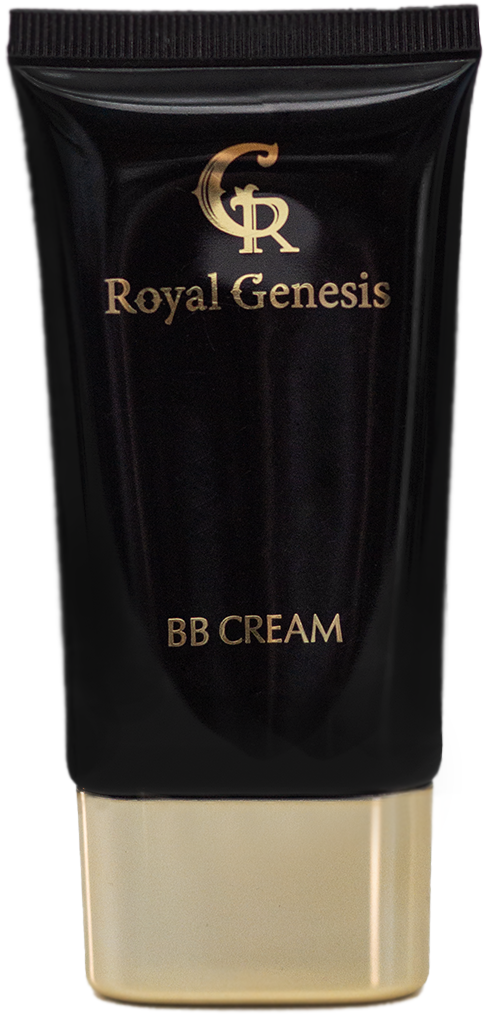
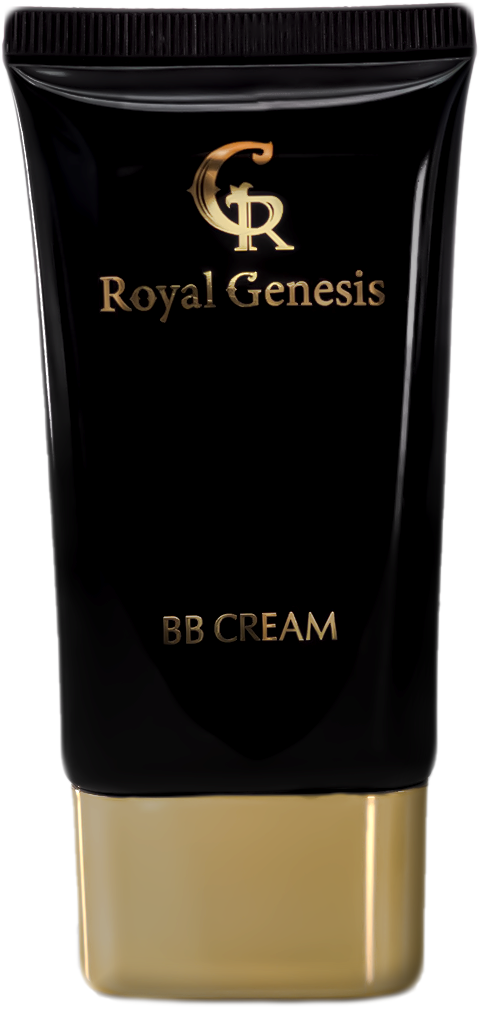
Add fon in image

diff --git a/products.html b/products.html
@@ -1,4 +1,4 @@
-<!doctype html>
+<!DOCTYPE html>
 <html lang="ru">
   <head>
     <meta charset="UTF-8" />
@@ -29,7 +29,9 @@
             <a href="products.html#step3" class="menu__link">Востановление</a>
           </li>
           <li class="menu__item text-gradient">
-            <a href="products.html#step4" class="menu__link">Дополнительный уход</a>
+            <a href="products.html#step4" class="menu__link"
+              >Дополнительный уход</a
+            >
           </li>
           <li class="menu__item text-gradient">
             <a href="products.html#footer" class="menu__link">Контакты</a>
@@ -41,6 +43,7 @@
       <div class="step">
         <h2 id="step1" class="step__title">Этап 1: Очищение</h2>
         <section class="product">
+          <div class="image__wrapper">
             <img
               class="product__image"
               src="images/product_1-1.png"
@@ -48,127 +51,189 @@
               height="630"
               alt=""
             />
-            <div class="product__description">
-              <h2 class="product__title text-gradient uppercase">Очищающий крем</h2>
-              <p class="product__text">
-                Благородные ритуалы ухода за&nbsp;кожей начинаются с&nbsp;этапа очищения. 
-Заботливый уход на&nbsp;первом этапе&nbsp;&mdash; это ключ к&nbsp;сохранению молодости и&nbsp;здоровья кожи на&nbsp;протяжении многих лет. 
-Очищающий крем обладает способностью преобразить обычную рутину ухода за&nbsp;кожей в&nbsp;удовольствие. Облакообразная мягкая пена, нежная и&nbsp;плотная, бережно очищает поры не&nbsp;стягивая кожу. 
-Благодаря своей уникальной формуле, крем делает кожу более мягкой и&nbsp;шелковистой на&nbsp;ощупь.
-              </p>
-            </div>
+          </div>
+          <div class="product__description">
+            <h2 class="product__title text-gradient uppercase">
+              Очищающий крем
+            </h2>
+            <p class="product__text">
+              Благородные ритуалы ухода за&nbsp;кожей начинаются с&nbsp;этапа
+              очищения. Заботливый уход на&nbsp;первом этапе&nbsp;&mdash; это
+              ключ к&nbsp;сохранению молодости и&nbsp;здоровья кожи
+              на&nbsp;протяжении многих лет. Очищающий крем обладает
+              способностью преобразить обычную рутину ухода за&nbsp;кожей
+              в&nbsp;удовольствие. Облакообразная мягкая пена, нежная
+              и&nbsp;плотная, бережно очищает поры не&nbsp;стягивая кожу.
+              Благодаря своей уникальной формуле, крем делает кожу более мягкой
+              и&nbsp;шелковистой на&nbsp;ощупь.
+            </p>
+          </div>
         </section>
         <section class="product">
           <div class="product__description">
-            <h2 class="product__title text-gradient uppercase">Специальный тонер</h2>
+            <h2 class="product__title text-gradient uppercase">
+              Специальный тонер
+            </h2>
             <p class="product__text">
-              В&nbsp;свою очередь, нежная, прозрачная текстура тонера помогает восстановить водный баланс кожи, предотвращает преждевременное старение, освежает кожу, делает ее&nbsp;более сияющей и&nbsp;здоровой. 
-Компоненты тонера помогают закрепить увлажнение и&nbsp;подготовить кожу к&nbsp;следующим этапам ухода. 
-Таким образом, использование тонера в&nbsp;регулярном уходе за&nbsp;кожей поможет ей&nbsp;выглядеть более здоровой, увлажненной и&nbsp;сияющей. 
+              В&nbsp;свою очередь, нежная, прозрачная текстура тонера помогает
+              восстановить водный баланс кожи, предотвращает преждевременное
+              старение, освежает кожу, делает ее&nbsp;более сияющей
+              и&nbsp;здоровой. Компоненты тонера помогают закрепить увлажнение
+              и&nbsp;подготовить кожу к&nbsp;следующим этапам ухода. Таким
+              образом, использование тонера в&nbsp;регулярном уходе
+              за&nbsp;кожей поможет ей&nbsp;выглядеть более здоровой,
+              увлажненной и&nbsp;сияющей.
             </p>
           </div>
-          <img
-          class="product__image"
-          src="images/product_1-2.png"
-          width="226"
-          height="656"
-          alt=""
-        />
-      </section>
+          <div class="image__wrapper">
+            <img
+              class="product__image"
+              src="images/product_1-2.png"
+              width="226"
+              height="656"
+              alt=""
+            />
+          </div>
+        </section>
       </div>
       <div class="step">
         <h2 id="step2" class="step__title">Этап 2: Увлажнение</h2>
         <section class="product">
-          <img
-            class="product__image"
-            src="images/product_2-1.png"
-            width="228"
-            height="653"
-            alt=""
-          />
+          <div class="image__wrapper">
+            <img
+              class="product__image"
+              src="images/product_2-1.png"
+              width="228"
+              height="653"
+              alt=""
+            />
+          </div>
           <div class="product__description">
-            <h2 class="product__title text-gradient uppercase">Лифтинг сыворотка</h2>
+            <h2 class="product__title text-gradient uppercase">
+              Лифтинг сыворотка
+            </h2>
             <p class="product__text">
-              На&nbsp;втором этапе процедуры ухода за&nbsp;кожей происходит питание и&nbsp;увлажнение кожи с&nbsp;помощью лифтинг-сыворотки и&nbsp;эмульсии. 
-              Лифтинг-сыворотка содержит активные компоненты, которые активно питают кожу и&nbsp;стимулируют регенерацию клеток, обеспечивая глубокое проникновение и&nbsp;улучшение текстуры кожи изнутри. 
+              На&nbsp;втором этапе процедуры ухода за&nbsp;кожей происходит
+              питание и&nbsp;увлажнение кожи с&nbsp;помощью лифтинг-сыворотки
+              и&nbsp;эмульсии. Лифтинг-сыворотка содержит активные компоненты,
+              которые активно питают кожу и&nbsp;стимулируют регенерацию клеток,
+              обеспечивая глубокое проникновение и&nbsp;улучшение текстуры кожи
+              изнутри.
             </p>
           </div>
-      </section>
-      <section class="product">
-        <div class="product__description">
-          <h2 class="product__title text-gradient uppercase">Специальный тонер</h2>
-          <p class="product__text">
-            Эмульсия возвращает упругость и&nbsp;эластичность коже, придавая лицу молодой вид и&nbsp;уменьшая признаки старения. 
-            Результатом применения лифтинг-сыворотки и&nbsp;эмульсии становятся упругая кожа, улучшение овала лица и&nbsp;уменьшение темных кругов и&nbsp;отеков под глазами. 
-            Увлажнение и&nbsp;питание кожи на&nbsp;этом этапе играют ключевую роль в&nbsp;поддержании здоровья и&nbsp;молодости кожи, делая ее&nbsp;более упругой, свежей и&nbsp;сияющей.
-          </p>
-        </div>
-        <img
-        class="product__image"
-        src="images/product_2-2.png"
-        width="226"
-        height="593"
-        alt=""
-      />
-    </section>
+        </section>
+        <section class="product">
+          <div class="product__description">
+            <h2 class="product__title text-gradient uppercase">
+              Специальный тонер
+            </h2>
+            <p class="product__text">
+              Эмульсия возвращает упругость и&nbsp;эластичность коже, придавая
+              лицу молодой вид и&nbsp;уменьшая признаки старения. Результатом
+              применения лифтинг-сыворотки и&nbsp;эмульсии становятся упругая
+              кожа, улучшение овала лица и&nbsp;уменьшение темных кругов
+              и&nbsp;отеков под глазами. Увлажнение и&nbsp;питание кожи
+              на&nbsp;этом этапе играют ключевую роль в&nbsp;поддержании
+              здоровья и&nbsp;молодости кожи, делая ее&nbsp;более упругой,
+              свежей и&nbsp;сияющей.
+            </p>
+          </div>
+          <div class="image__wrapper">
+            <img
+              class="product__image"
+              src="images/product_2-2.png"
+              width="226"
+              height="593"
+              alt=""
+            />
+          </div>
+        </section>
       </div>
       <div class="step">
         <h2 id="step3" class="step__title">Этап 3: Востановление</h2>
         <section class="product">
-          <img
-            class="product__image product__image_3-1"
-            src="images/product_3-1.png"
-            width="364"
-            height="412"
-            alt=""
-          />
+          <div class="image__wrapper">
+            <img
+              class="product__image product__image_3-1"
+              src="images/product_3-1.png"
+              width="364"
+              height="412"
+              alt=""
+            />
+          </div>
           <div class="product__description">
-            <h2 class="product__title text-gradient uppercase">Питательный крем</h2>
+            <h2 class="product__title text-gradient uppercase">
+              Питательный крем
+            </h2>
             <p class="product__text">
-              На&nbsp;заключительном этапе процедуры достигается восстановление молодости и&nbsp;красоты кожи. Специализированные питательный крем для лица проникает глубоко в&nbsp;структуру кожи, восстанавливает коллагеновые и&nbsp;эластиновые волокна, 
-что в&nbsp;буквальном смысле выталкивает все ваши морщины изнутри. Результатом является помолодевшая, более упругая, наполненная и&nbsp;увлажненная кожа, придающая вам ощущение королевского великолепия. 
+              На&nbsp;заключительном этапе процедуры достигается восстановление
+              молодости и&nbsp;красоты кожи. Специализированные питательный крем
+              для лица проникает глубоко в&nbsp;структуру кожи, восстанавливает
+              коллагеновые и&nbsp;эластиновые волокна, что в&nbsp;буквальном
+              смысле выталкивает все ваши морщины изнутри. Результатом является
+              помолодевшая, более упругая, наполненная и&nbsp;увлажненная кожа,
+              придающая вам ощущение королевского великолепия.
             </p>
           </div>
-      </section>
-      <section class="product">
-        <div class="product__description">
-          <h2 class="product__title text-gradient uppercase">Крем для век</h2>
-          <p class="product__text">
-            Гидрогелиевая текстура крема для век улучшает увлажнение и&nbsp;предотвращает сухость кожи, оставляя кожу в&nbsp;области глаз нежной и&nbsp;увлажненной. 
-Использование специализированных кремов помогает не&nbsp;только улучшить внешний вид кожи, но&nbsp;и&nbsp;повысить ее&nbsp;здоровье изнутри за&nbsp;счет стимуляции процессов регенерации. 
-Важно помнить, что регулярное уходовые процедуры способствуют сохранению молодости и&nbsp;красоты кожи на&nbsp;протяжении долгого времени.
-          </p>
-        </div>
-        <img
-        class="product__image"
-        src="images/product_3-2.png"
-        width="198"
-        height="610"
-        alt=""
-      />
-    </section>
+        </section>
+        <section class="product">
+          <div class="product__description">
+            <h2 class="product__title text-gradient uppercase">Крем для век</h2>
+            <p class="product__text">
+              Гидрогелиевая текстура крема для век улучшает увлажнение
+              и&nbsp;предотвращает сухость кожи, оставляя кожу в&nbsp;области
+              глаз нежной и&nbsp;увлажненной. Использование специализированных
+              кремов помогает не&nbsp;только улучшить внешний вид кожи,
+              но&nbsp;и&nbsp;повысить ее&nbsp;здоровье изнутри за&nbsp;счет
+              стимуляции процессов регенерации. Важно помнить, что регулярное
+              уходовые процедуры способствуют сохранению молодости
+              и&nbsp;красоты кожи на&nbsp;протяжении долгого времени.
+            </p>
+          </div>
+          <div class="image__wrapper">
+            <img
+              class="product__image"
+              src="images/product_3-2.png"
+              width="198"
+              height="610"
+              alt=""
+            />
+          </div>
+        </section>
       </div>
       <div class="step">
         <h2 id="step4" class="step__title">Этап 4: Дополнительный уход</h2>
         <section class="product">
-          <img
-            class="product__image"
-            src="images/product_4-1.png"
-            width="485"
-            height="1017"
-            alt=""
-          />
+          <div class="image__wrapper">
+            <img
+              class="product__image"
+              src="images/product_4-1.png"
+              width="485"
+              height="1017"
+              alt=""
+            />
+          </div>
           <div class="product__description">
             <h2 class="product__title text-gradient uppercase">BB-крем</h2>
             <p class="product__text">
-              BB-крем&nbsp;&mdash; это многофункциональное средство для заботы о&nbsp;вашей коже, незаменимое для создания идеального образа перед важными событиями. 
-Его легкая текстура помогает мгновенно скрыть недостатки и&nbsp;придать коже омолаживающий и&nbsp;питательный эффект. 
-Этот волшебный продукт сочетает в&nbsp;себе свойства увлажняющего крема, тонального средства и&nbsp;крема с&nbsp;защитой от&nbsp;солнца. 
-Он&nbsp;подходит для всех типов кожи и&nbsp;может использоваться каждый день. Благодаря своей нежной текстуре, BB-крем легко наносится и&nbsp;растушевывается, создавая естественное покрытие, которое выравнивает тон кожи и&nbsp;придает ей&nbsp;сияние. 
-Кроме того, он&nbsp;содержит активные компоненты, которые делают вашу кожу еще более здоровой и&nbsp;сияющей. BB-крем&nbsp;&mdash; это удобное и&nbsp;эффективное решение для тех, кто ценит простоту и&nbsp;красоту в&nbsp;уходе за&nbsp;своей кожей.
+              BB-крем&nbsp;&mdash; это многофункциональное средство для заботы
+              о&nbsp;вашей коже, незаменимое для создания идеального образа
+              перед важными событиями. Его легкая текстура помогает мгновенно
+              скрыть недостатки и&nbsp;придать коже омолаживающий
+              и&nbsp;питательный эффект. Этот волшебный продукт сочетает
+              в&nbsp;себе свойства увлажняющего крема, тонального средства
+              и&nbsp;крема с&nbsp;защитой от&nbsp;солнца. Он&nbsp;подходит для
+              всех типов кожи и&nbsp;может использоваться каждый день. Благодаря
+              своей нежной текстуре, BB-крем легко наносится
+              и&nbsp;растушевывается, создавая естественное покрытие, которое
+              выравнивает тон кожи и&nbsp;придает ей&nbsp;сияние. Кроме того,
+              он&nbsp;содержит активные компоненты, которые делают вашу кожу еще
+              более здоровой и&nbsp;сияющей. BB-крем&nbsp;&mdash; это удобное
+              и&nbsp;эффективное решение для тех, кто ценит простоту
+              и&nbsp;красоту в&nbsp;уходе за&nbsp;своей кожей.
             </p>
           </div>
-      </section>
+        </section>
       </div>
     </main>
     <footer class="footer">

diff --git a/css/products.css b/css/products.css
@@ -3,6 +3,10 @@
   --width-product: calc(300px + (500 - 300) * var(--formula));
 }
 
+body {
+  background: url("../images/background-product.png") repeat;
+}
+
 .step:nth-child(1) {
   margin-top: 150px;
 }
@@ -23,7 +27,6 @@
   font-size: 2rem;
 
   width: fit-content;
-  z-index: 0;
 }
 
 .step__title::before {
@@ -46,6 +49,7 @@
 }
 
 .product {
+  position: relative;
   display: flex;
   justify-content: center;
   align-items: center;
@@ -63,6 +67,23 @@
   width: var(--width-product);
   height: var(--width-product);
   object-fit: contain;
+}
+
+.image__wrapper {
+  position: relative;
+  width: var(--width-product);
+  height: var(--width-product);
+}
+
+.image__wrapper::before {
+  position: absolute;
+  content: url("../images/fon_item.png");
+
+  top: -10%;
+  left: -40%;
+  width: var(--width-product);
+  height: var(--width-product);
+  z-index: -1;
 }
 
 .product__text {

diff --git a/css/style.css b/css/style.css
@@ -84,9 +84,6 @@ body {
   font-size: 1rem;
   line-height: 1.5;
   font-family: Roboto, sans-serif;
-
-  background: url("../images/background.webp") repeat;
-
 }
 
 h2 {
@@ -168,7 +165,7 @@ h2 {
 .menu__burger > span::before,
 .menu__burger > span::after {
   position: absolute;
-  display: block;
+  
 
   width: 100%;
   height: 4px;
@@ -485,7 +482,7 @@ h2 {
   position: absolute;
   content: "";
 
-  background-image: url("../images/signature.webp ");
+  background-image: url("../images/signature.webp");
   background-repeat: no-repeat;
   background-size: contain;
   background-position: bottom;
